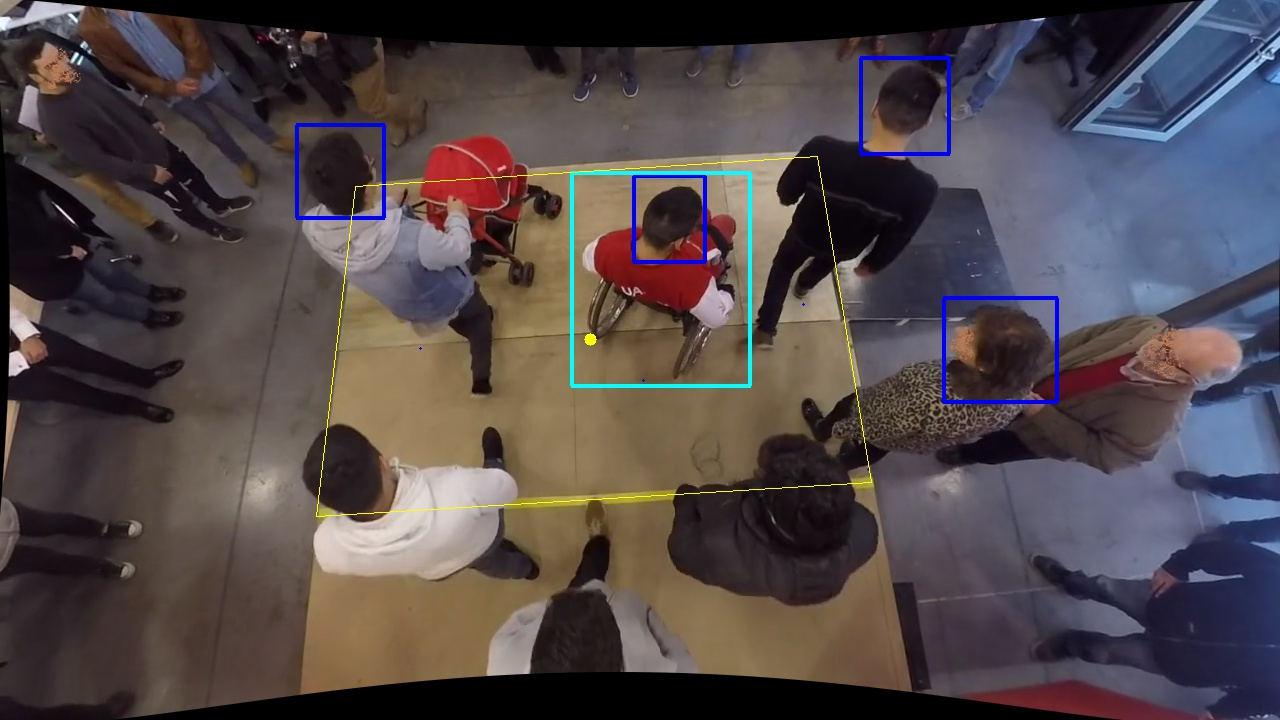
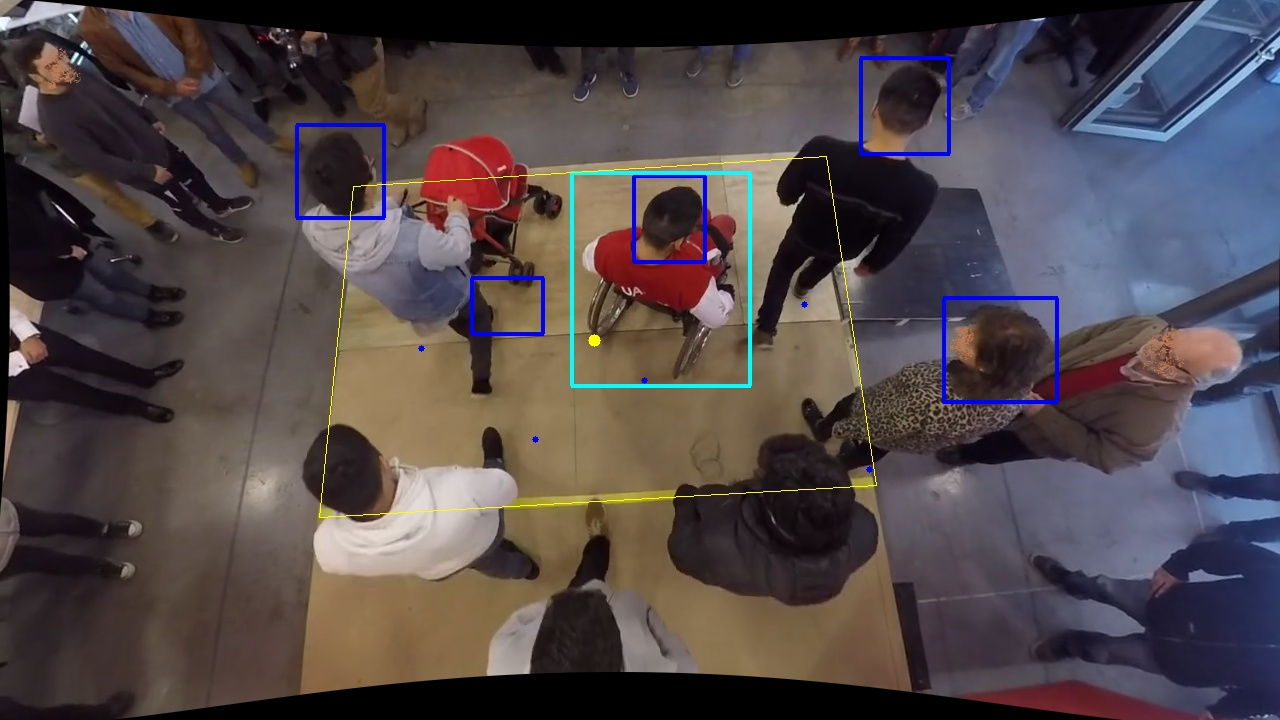
7th iteration

diff --git a/object_detection/draw.py b/object_detection/draw.py
@@ -106,10 +106,7 @@ class Drawing(object):
             if self.poly.contains(geom_coords):
                 self.rec_points.append([int(coords[0]),int(coords[1])])
                 vis_util.draw_bounding_box_on_image_array(photo,caja[0],caja[1],caja[2],caja[3],color='red',thickness=4,display_str_list=()) # HEADS
-                cv2.circle(photo,(int(coords[1]),int(coords[0])),1,(255,0,0),-1)
-                return(1)
-            elif clase==4.0:
-                vis_util.draw_bounding_box_on_image_array(photo,caja[0],caja[1],caja[2],caja[3],color='red',thickness=4,display_str_list=()) # HEADS
+                #cv2.circle(photo,(int(coords[1]),int(coords[0])),3,(255,0,0),-1)
                 return(1)
             return(0)
 
@@ -265,7 +262,8 @@ class Drawing(object):
 
     def Voronoi_diagram(self,image):
         rec_points = np.array(self.rec_points)
-        vor = Voronoi(np.flip(rec_points))
+        rec_points = np.flip(rec_points)
+        vor = Voronoi(rec_points)
         lines = [geometry.LineString(vor.vertices[line]) for line in vor.ridge_vertices if -1 not in line]
         for polyp in ops.polygonize(lines):
             poly = np.array(list(polyp.exterior.coords))
@@ -296,7 +294,6 @@ class Drawing(object):
             sides.append(np.array([y_axis,x_axis]))
 
         center = rec_points.mean(axis=0)
-        #center = np.flip(rec_points,(0,2)).mean(axis=0)
         for pointidx, simplex in zip(vor.ridge_points, vor.ridge_vertices):
             simplex = np.asarray(simplex)
             if np.any(simplex < 0):
